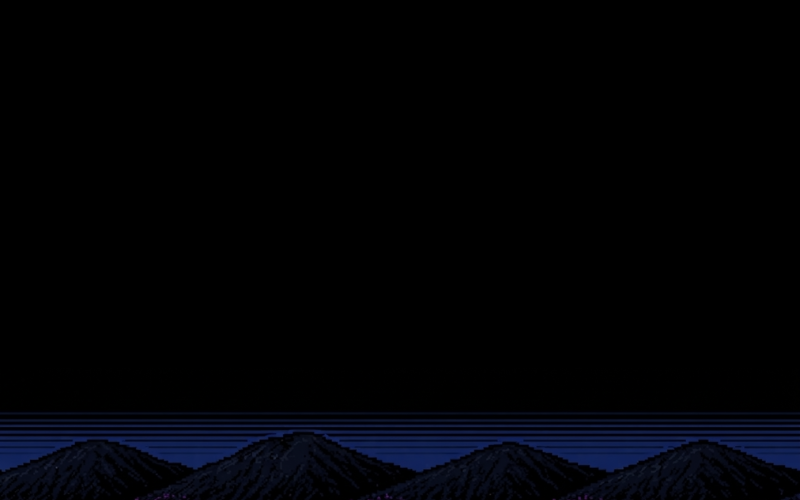
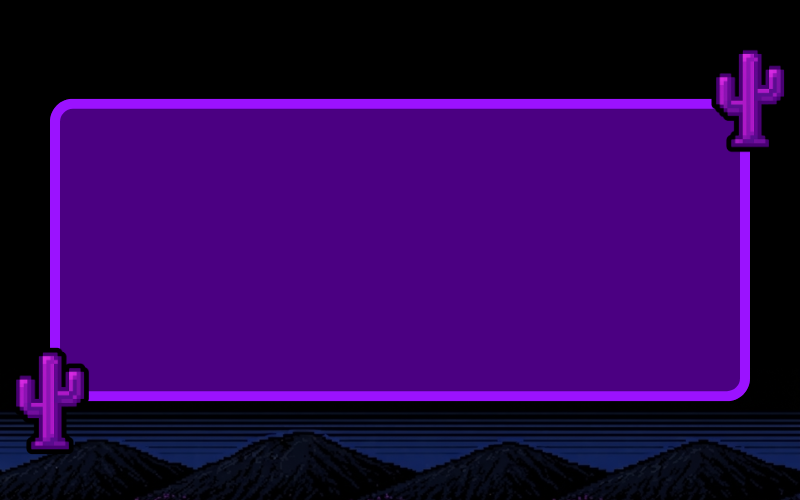
Modificando Outras Telas

diff --git a/Screens/Data_error.py b/Screens/Data_error.py
@@ -1,5 +1,6 @@
 import pygame
 import pygame_menu
+from pygame_menu.baseimage import BaseImage, IMAGE_MODE_FILL
 
 from Screens import Home, Logon, Creat_Account, Inital
 
@@ -7,19 +8,30 @@ pygame.init()
 surface = pygame.display.set_mode((600, 400))
 
 def data_error_screen(erro_message,screen_error_name):
-    
     theme = pygame_menu.themes.THEME_DARK.copy()
-    theme.title_background_color = (75, 0, 130)
-    theme.title_font = pygame_menu.font.FONT_OPEN_SANS
+    theme.title_background_color = (0, 0, 0)
+    theme.title_font = pygame_menu.font.FONT_BEBAS
     
+    fundo_error = BaseImage(
+        image_path="teladefundo.png",
+        drawing_mode=IMAGE_MODE_FILL
+    )
+
+    theme.background_color = fundo_error
+
     #Fonte dos Botões
     theme.widget_font = pygame_menu.font.FONT_MUNRO
 
     #Estilo de Seleção de Item
     theme.widget_selection_effect = pygame_menu.widgets.LeftArrowSelection()
 
+    #Cor e Estilo da Barra Superior 
+    theme.background_color = fundo_error
+    theme.title_bar_style = pygame_menu.widgets.MENUBAR_STYLE_NONE
+    theme.title_offset = (260, 0)
+
     error_menu = pygame_menu.Menu(
-        'Dados inválidos',
+        'Dados invalidos',
         800,
         500,
         theme = theme

diff --git a/Screens/Logon.py b/Screens/Logon.py
@@ -1,23 +1,31 @@
 import pygame
 import pygame_menu
+from pygame_menu.baseimage import BaseImage, IMAGE_MODE_FILL
 
 from Screens.Creat_Account import create_account_menu
 from Features.Dados_Verificacao import DataVerifier
 
 pygame.init()
-surface = pygame.display.set_mode((600, 400))
+surface = pygame.display.set_mode((800, 500))
 
 def login_screen(initial_screen):
     theme = pygame_menu.themes.THEME_DARK.copy()
-    theme.title_background_color = (75, 0, 130)
-    theme.title_font = pygame_menu.font.FONT_OPEN_SANS
+    theme.title_font = pygame_menu.font.FONT_BEBAS
+    
+    fundo_login = BaseImage(
+        image_path="teladefundo.png",
+        drawing_mode=IMAGE_MODE_FILL
+    )
+
+    theme.background_color = fundo_login
 
     #Fonte dos Botões
     theme.widget_font = pygame_menu.font.FONT_MUNRO
 
     #Cor e Estilo da Barra Superior
-    theme.title_background_color = (75, 0, 130)
-    theme.title_bar_style = pygame_menu.widgets.MENUBAR_STYLE_SIMPLE
+    theme.title_background_color = (0, 0, 0)
+    theme.title_bar_style = pygame_menu.widgets.MENUBAR_STYLE_NONE
+    theme.title_offset = (350, 0)
 
     #Estilo de Seleção de Item
     theme.widget_selection_effect = pygame_menu.widgets.LeftArrowSelection()

diff --git a/Screens/Creat_Account.py b/Screens/Creat_Account.py
@@ -1,5 +1,6 @@
 import pygame
 import pygame_menu
+from pygame_menu.baseimage import BaseImage, IMAGE_MODE_FILL
 from pygame_menu.examples.other.widget_positioning import label
 
 from Features.Dados_Verificacao import DataVerifier
@@ -9,14 +10,21 @@ surface = pygame.display.set_mode((600, 400))
 
 def create_account_menu(initial_screen,login_screen):
     theme = pygame_menu.themes.THEME_DARK.copy()
-    theme.title_font = pygame_menu.font.FONT_OPEN_SANS
+    theme.title_font = pygame_menu.font.FONT_BEBAS
 
+    fundo_criar_conta = BaseImage(
+        image_path="teladefundo.png",
+        drawing_mode=IMAGE_MODE_FILL
+    )
+
+    theme.background_color = fundo_criar_conta
     #Fonte dos Botões
     theme.widget_font = pygame_menu.font.FONT_MUNRO
 
     #Cor e Estilo da Barra Superior
-    theme.title_background_color = (75, 0, 130)
-    theme.title_bar_style = pygame_menu.widgets.MENUBAR_STYLE_SIMPLE
+    theme.title_background_color = (0, 0, 0)
+    theme.title_bar_style = pygame_menu.widgets.MENUBAR_STYLE_NONE
+    theme.title_offset = (290, 0)
 
     #Estilo de Seleção de Item
     theme.widget_selection_effect = pygame_menu.widgets.LeftArrowSelection()

diff --git a/Screens/profile_options.py b/Screens/profile_options.py
@@ -6,13 +6,13 @@ from Screens.update_screen import update_menu
 from Screens.delete_screen import delete_menu
 
 pygame.init()
-surface = pygame.display.set_mode((600, 400))
+surface = pygame.display.set_mode((800, 500))
 
 def profile_options_menu(user):
     options = pygame_menu.Menu(
         'Profile Options',
-        600,
-        400,
+        800,
+        500,
 
         theme=pygame_menu.themes.THEME_DARK)
 
